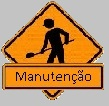
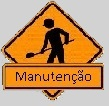
botão Manutenção e Remetentes

diff --git a/src/view/TelaInicial.java b/src/view/TelaInicial.java
@@ -76,7 +76,7 @@ public class TelaInicial extends javax.swing.JDialog {
             }
         });
 
-        btnRemetentes.setIcon(new javax.swing.ImageIcon(getClass().getResource("/image/Remetentes1.jpg"))); // NOI18N
+        btnRemetentes.setIcon(new javax.swing.ImageIcon(getClass().getResource("/image/remetentes.jpg"))); // NOI18N
         btnRemetentes.addActionListener(new java.awt.event.ActionListener() {
             public void actionPerformed(java.awt.event.ActionEvent evt) {
                 btnRemetentesActionPerformed(evt);
